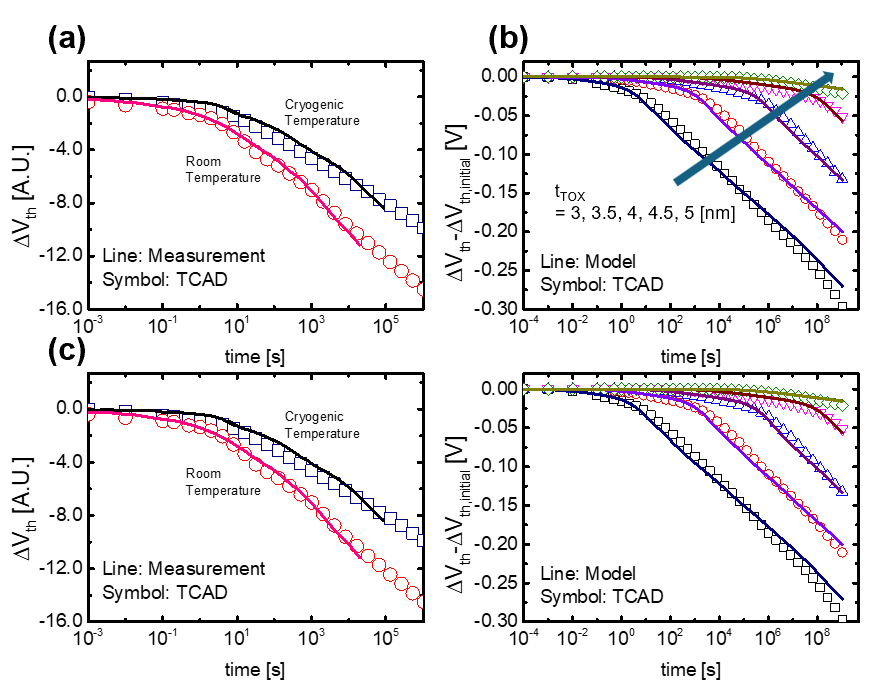
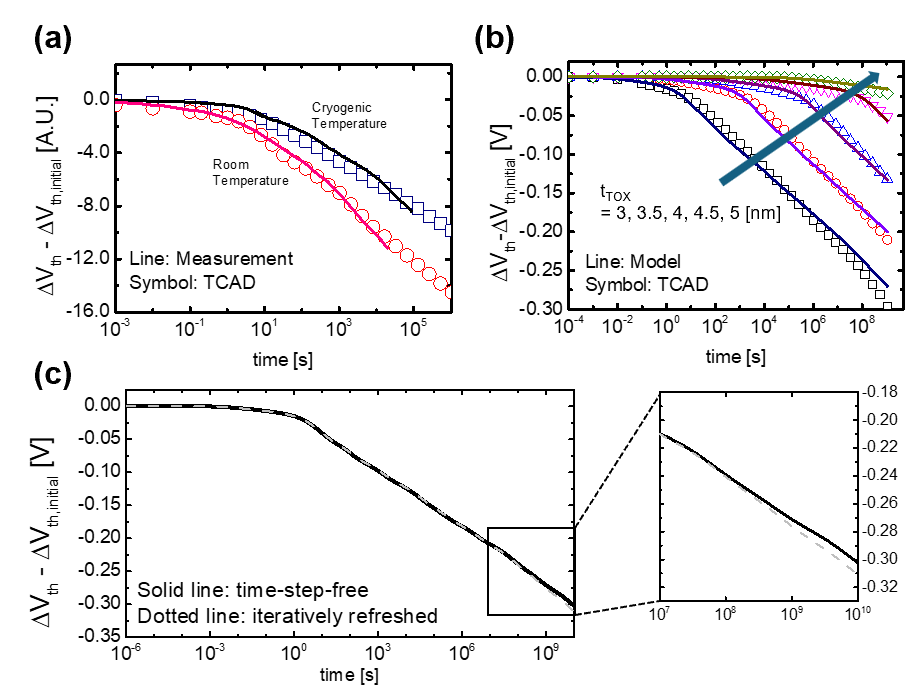
Revised version manuscript complete, marked version

diff --git a/Jin-EDL202605-MAJOR-highlighted/generic-color.tex b/Jin-EDL202605-MAJOR-highlighted/generic-color.tex
@@ -211,7 +211,8 @@ Therefore, for a fixed spatial/energy discretization and a fixed number of evalu
     \centering
     \includegraphics[width=\columnwidth]{fig3.png}
     \caption{(a) The TCAD simulation calibration with the measurement from previous study~\cite{Refaldi.IRPS2025}.
-    (b) A detail detrapping curve variation over time with $t_\text{TOX}$ from 3~nm to 5~nm.}
+    (b) A detail detrapping curve variation over time with $t_\text{TOX}$ from 3~nm to 5~nm.
+    (c) Comparison between time-step-free simulation to iteratively refreshed simulation showing almost no difference.}
     \label{fig3}
 \end{figure}
 
@@ -223,8 +224,8 @@ Therefore, for a fixed spatial/energy discretization and a fixed number of evalu
 \toprule
 Property & TCAD & Time-step-free model\\
 \midrule
-\shortstack[l]{Temporal treatment\\{}} & \shortstack[l]{sequential time stepping\\{}} & \shortstack[l]{closed-form evaluation\\of eq (\ref{autonomousSoluation})}\\
-\shortstack[l]{Dependence on\\final physical time\\{}} & {\shortstack[l]{Runtime increases with\\the final retention time\\{}}}& \shortstack[l]{Runtime independent of\\final physical time} \\
+\shortstack[l]{Temporal treatment\\{}} & \shortstack[l]{sequential time stepping\\{}} & \shortstack[l]{closed-form\\evaluation of eq (\ref{autonomousSoluation})}\\
+\shortstack[l]{Dependence on\\final physical time\\{}} & {\shortstack[l]{Runtime increases with\\the final retention time\\{}}}& \shortstack[l]{Runtime independent\\of final physical time} \\
 \shortstack[l]{Run Time (s)\\(average of Fig.~\ref{fig3}(b))} & \shortstack[l]{$>$25000\\{}} & \shortstack[l]{$<$4\\{}} \\
 \bottomrule
 \end{tabular}
@@ -233,15 +234,14 @@ Property & TCAD & Time-step-free model\\
 
 According to \cite{Refaldi.IRPS2025}, cryogenic conditions enable the detrapping component to be \sout{isolated from retention loss} \uline{separated from thermally activated retention-loss components}.
 However, direct TCAD simulation at cryogenic temperature about 4.2~K condition did not converge reliably in our setup.
-\hl{Therefore, before applying the cryogenic-emulation condition, two convergence tendencies were compared in the extreme condition: one obtained by lowering the temperature toward the lowest convergent cryogenic range, and the other obtained by reducing the electron capture cross section toward zero.}
+\hl{Therefore, two convergence tendencies were compared in the extreme condition: one obtained by lowering the temperature toward the lowest convergent cryogenic range, and the other obtained by reducing the electron capture cross section toward zero.}
 \hl{Both approaches showed the same retention-time tendency in the extreme condition, indicating that the suppression of thermally activated transitions can reproduce the dominant cryogenic detrapping behavior within the convergent TCAD framework.}
 Therefore, to emulate cryogenic conditions during retention operation within the TCAD framework, the capture cross section was adjusted to an extremely low value ($\sigma_\mathrm{n} \rightarrow 0$) only during retention.
 This manipulation suppresses thermal electron transitions between trapped and conduction states within the CTN layer, while maintaining physical consistency in other mechanisms~\cite{TCADmanual.2022}.
-\hl{Based on this convergence tendency, the calibration in \hbox{Fig.~\ref{fig3}(a)} was performed using the original time-scale matching strategy, without introducing an additional calibration figure.}
-\hl{Thus, \hbox{Fig.~\ref{fig3}(a)} should be interpreted as a calibrated cryogenic-emulation benchmark rather than a direct 4.2~K TCAD simulation.}
+\hl{Thus, every TCAD simulation results shown in \hbox{Fig.~\ref{fig3}} should be interpreted as a calibrated cryogenic-emulation benchmark rather than a direct 4.2~K TCAD simulation.}
 
-\hl{The TCAD benchmark was built using Synopsys Sentaurus TCAD following the Device manual~\hbox{\cite{TCADmanual.2022}}.}
-\hl{The retention deck includes thermionic emission, Poole--Frenkel emission, and nonlocal tunneling, providing a TCAD reference with thermal and tunneling detrapping mechanisms.}
+\hl{The TCAD benchmark was built using Synopsys Sentaurus TCAD.}
+\hl{The retention deck includes thermionic emission, Poole--Frenkel emission, and nonlocal tunneling, providing a TCAD reference with thermal and tunneling detrapping mechanisms~\hbox{\cite{TCADmanual.2022}}.}
 The TCAD deck shown in Fig.~\ref{fig2}(c) was calibrated by matching the retention time scale of the measurement in previous study~\cite{Refaldi.IRPS2025}.
 Since $\Delta V_\text{th}$ is reported in arbitrary units, the calibration was done by matching time scale only.
 Program operation was performed by single $1~\mu s$ pulse and calibrated to obtain $\Delta V_\text{th} = 1.8$~V.
@@ -251,13 +251,13 @@ To properly focus on the detrapping effect from the CTN layer, bandgap-engineere
 \sout{The model validation is performed using Synopsys TCAD simulations calibrated against previous retention modeling studies~\hbox{\cite{Han.TED2026, Jin.TED2025}}.}
 In the model calculation, the trap energy was divided into 100 bins, and the CTN layer was discretized into 30 slices.
 The variation of the $t_\text{TOX}$ showed the most dominancy in detrapping time transient curve.
-\hl{This is because $t_\text{TOX}$ directly controls the tunneling probability from CTN traps toward the channel side, making it the most sensitive geometrical parameter for the detrapping transient.}
+% \hl{This is because $t_\text{TOX}$ directly controls the tunneling probability from CTN traps toward the channel side, making it the most sensitive geometrical parameter for the detrapping transient.}
 In Fig.~\ref{fig3}(b), $t_\text{TOX}$ from 3~nm to 5~nm for both TCAD simulation and the model were performed, showing good match with each other.
-\hl{The model accurately reproduces the oxide-thickness-dependent retention transient observed in the TCAD benchmark.}
-
+% \hl{The model accurately reproduces the oxide-thickness-dependent retention transient observed in the TCAD benchmark.}
 \hl{To verify the time-step-free formulation, an iterative refresh test was performed as shown in Fig.~\hbox{\ref{fig3}(c)}.}
 \hl{In the refresh calculation, the trapped-charge distribution is sequentially updated after each retention interval and used as the initial condition for the next step, whereas the proposed method directly predicts the transient from the initial distribution without intermediate updates.}
-\hl{Both approaches show nearly identical $\Delta V_\text{th}$ behavior over the entire retention range, with only about 2\% difference at $10^9$~s.}
+\hl{Both approaches show nearly identical $\Delta V_\text{th}$ behavior over the entire retention range, with only about 3\% difference from time exceeding $10^9$~s.}
+\hl{Therefore, the time-step-free simulation was chosen as the main method of this study since the iterative refresh test test simply multiplies the simulation time by the total number of iterations.}
 
 Table~\ref{MethodComparisons} shows the comparison between TCAD and the model.
 The table shows how much computation time and resource efficiency could be improved through the time-step-free model.